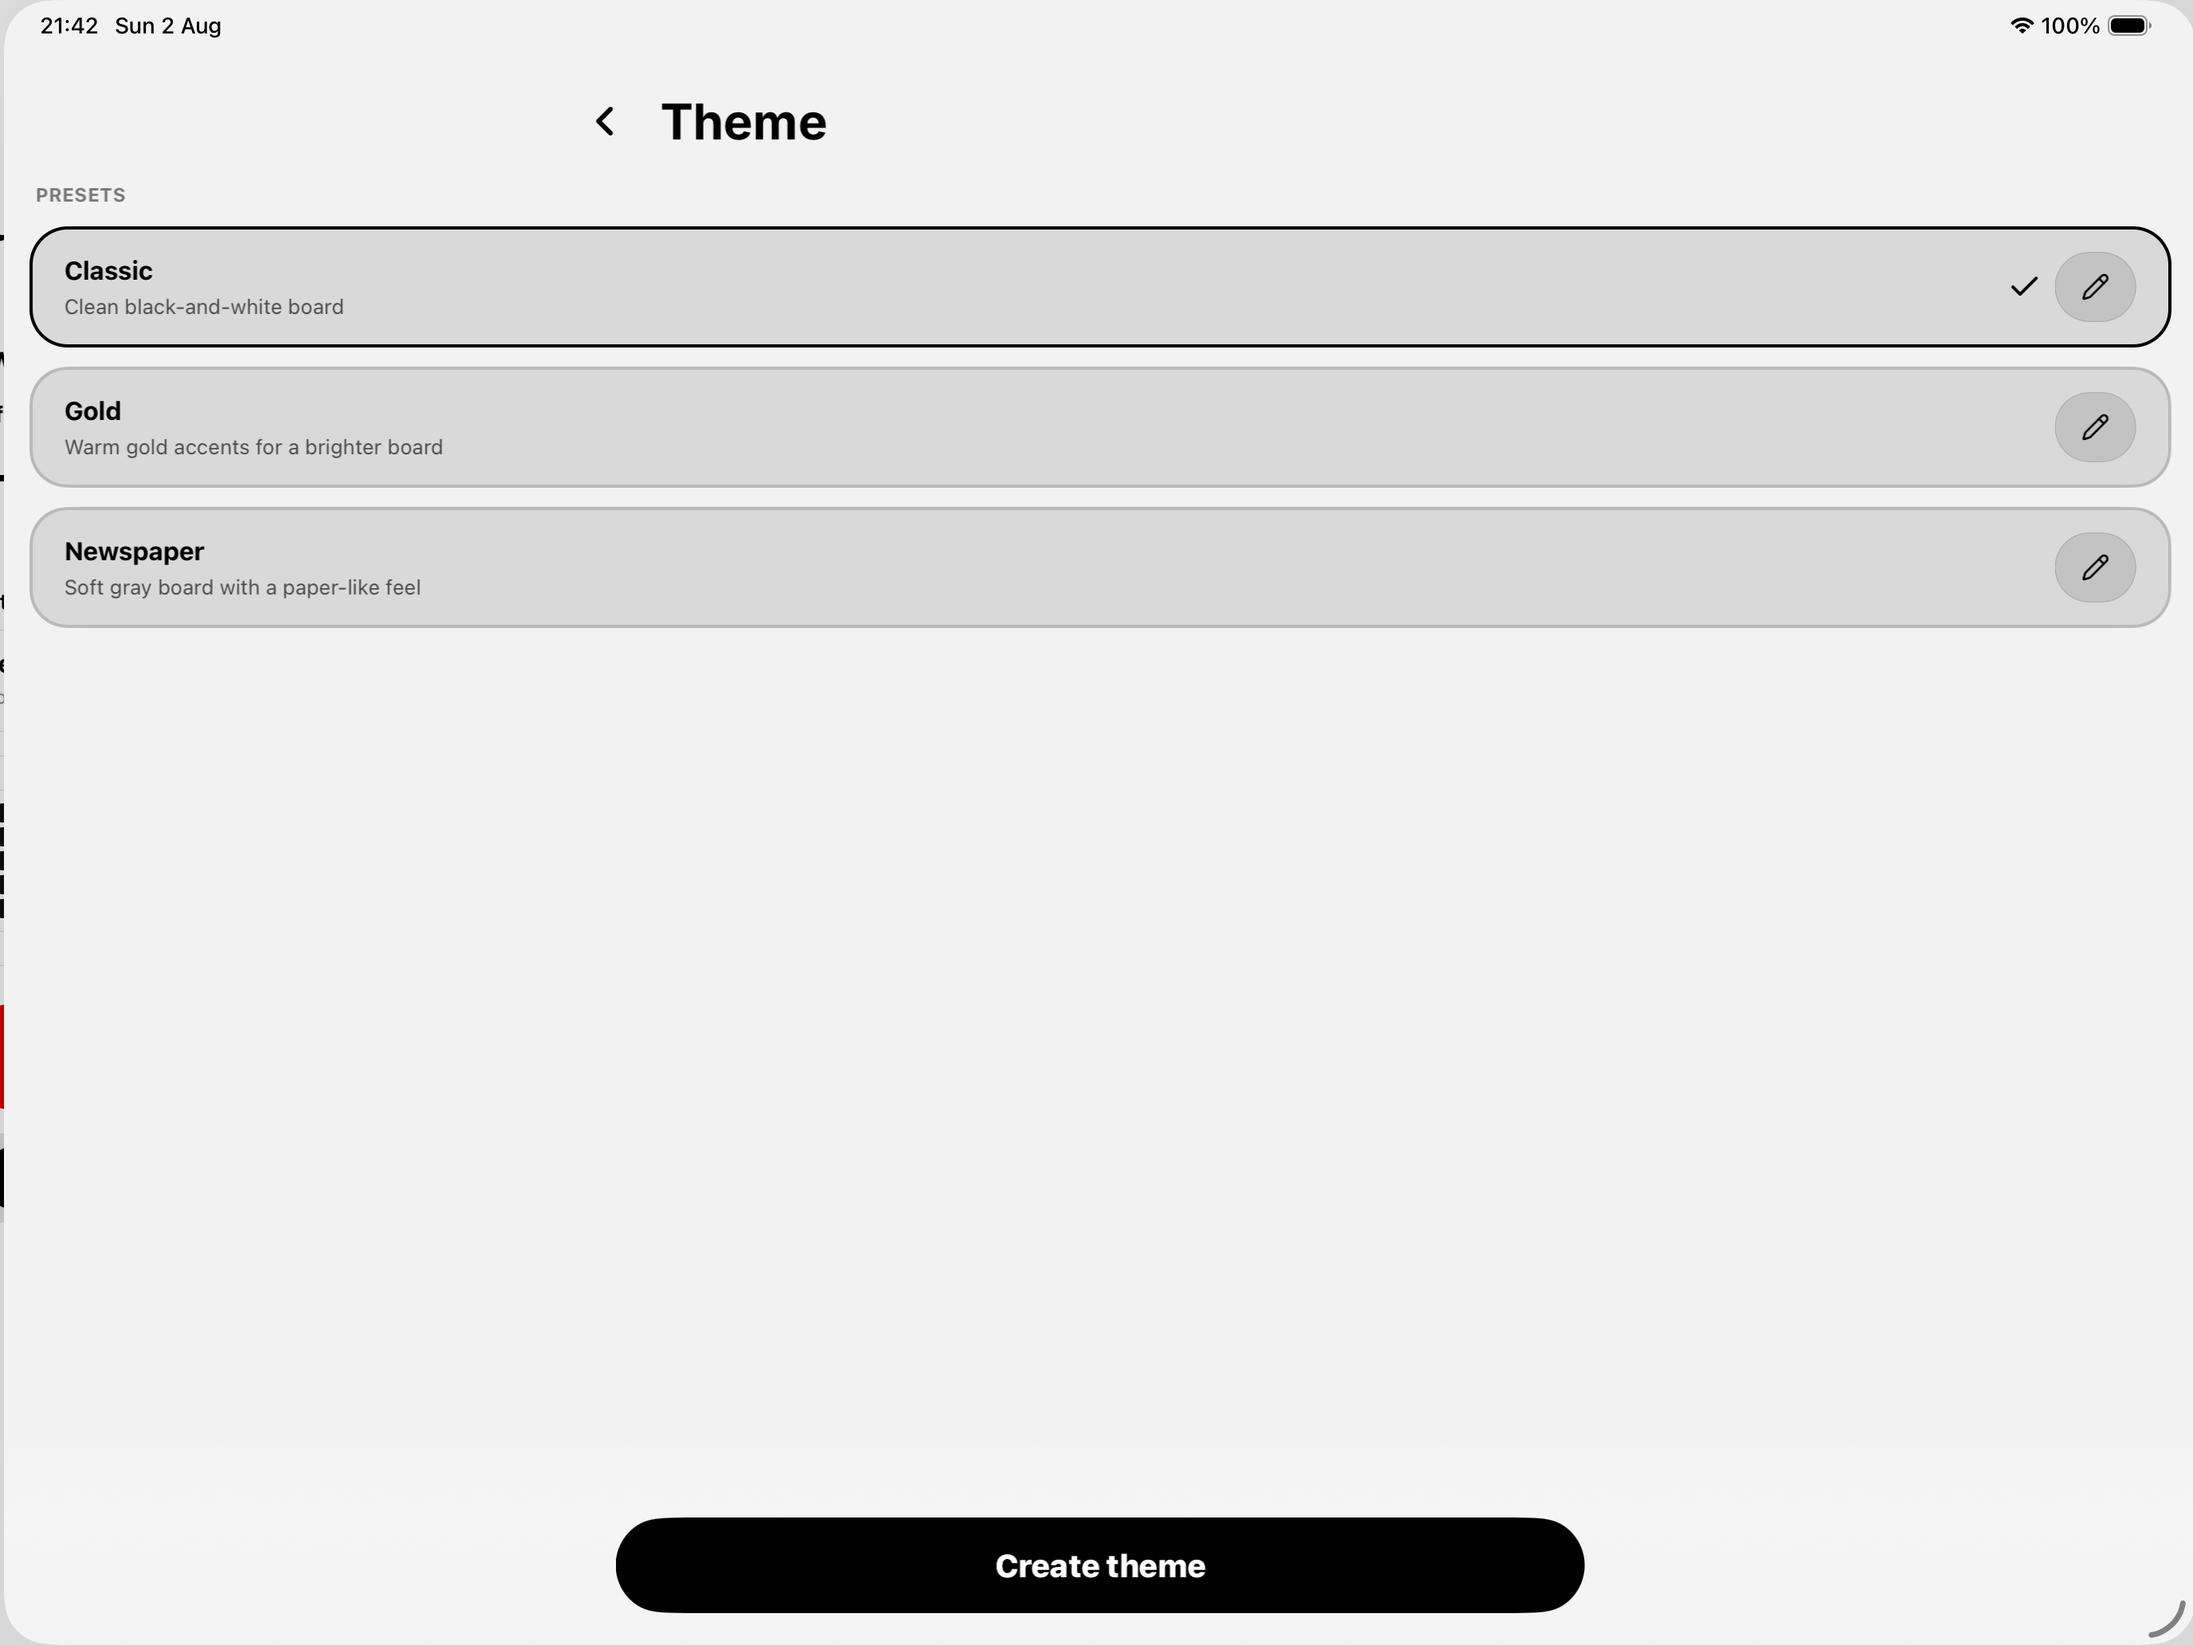
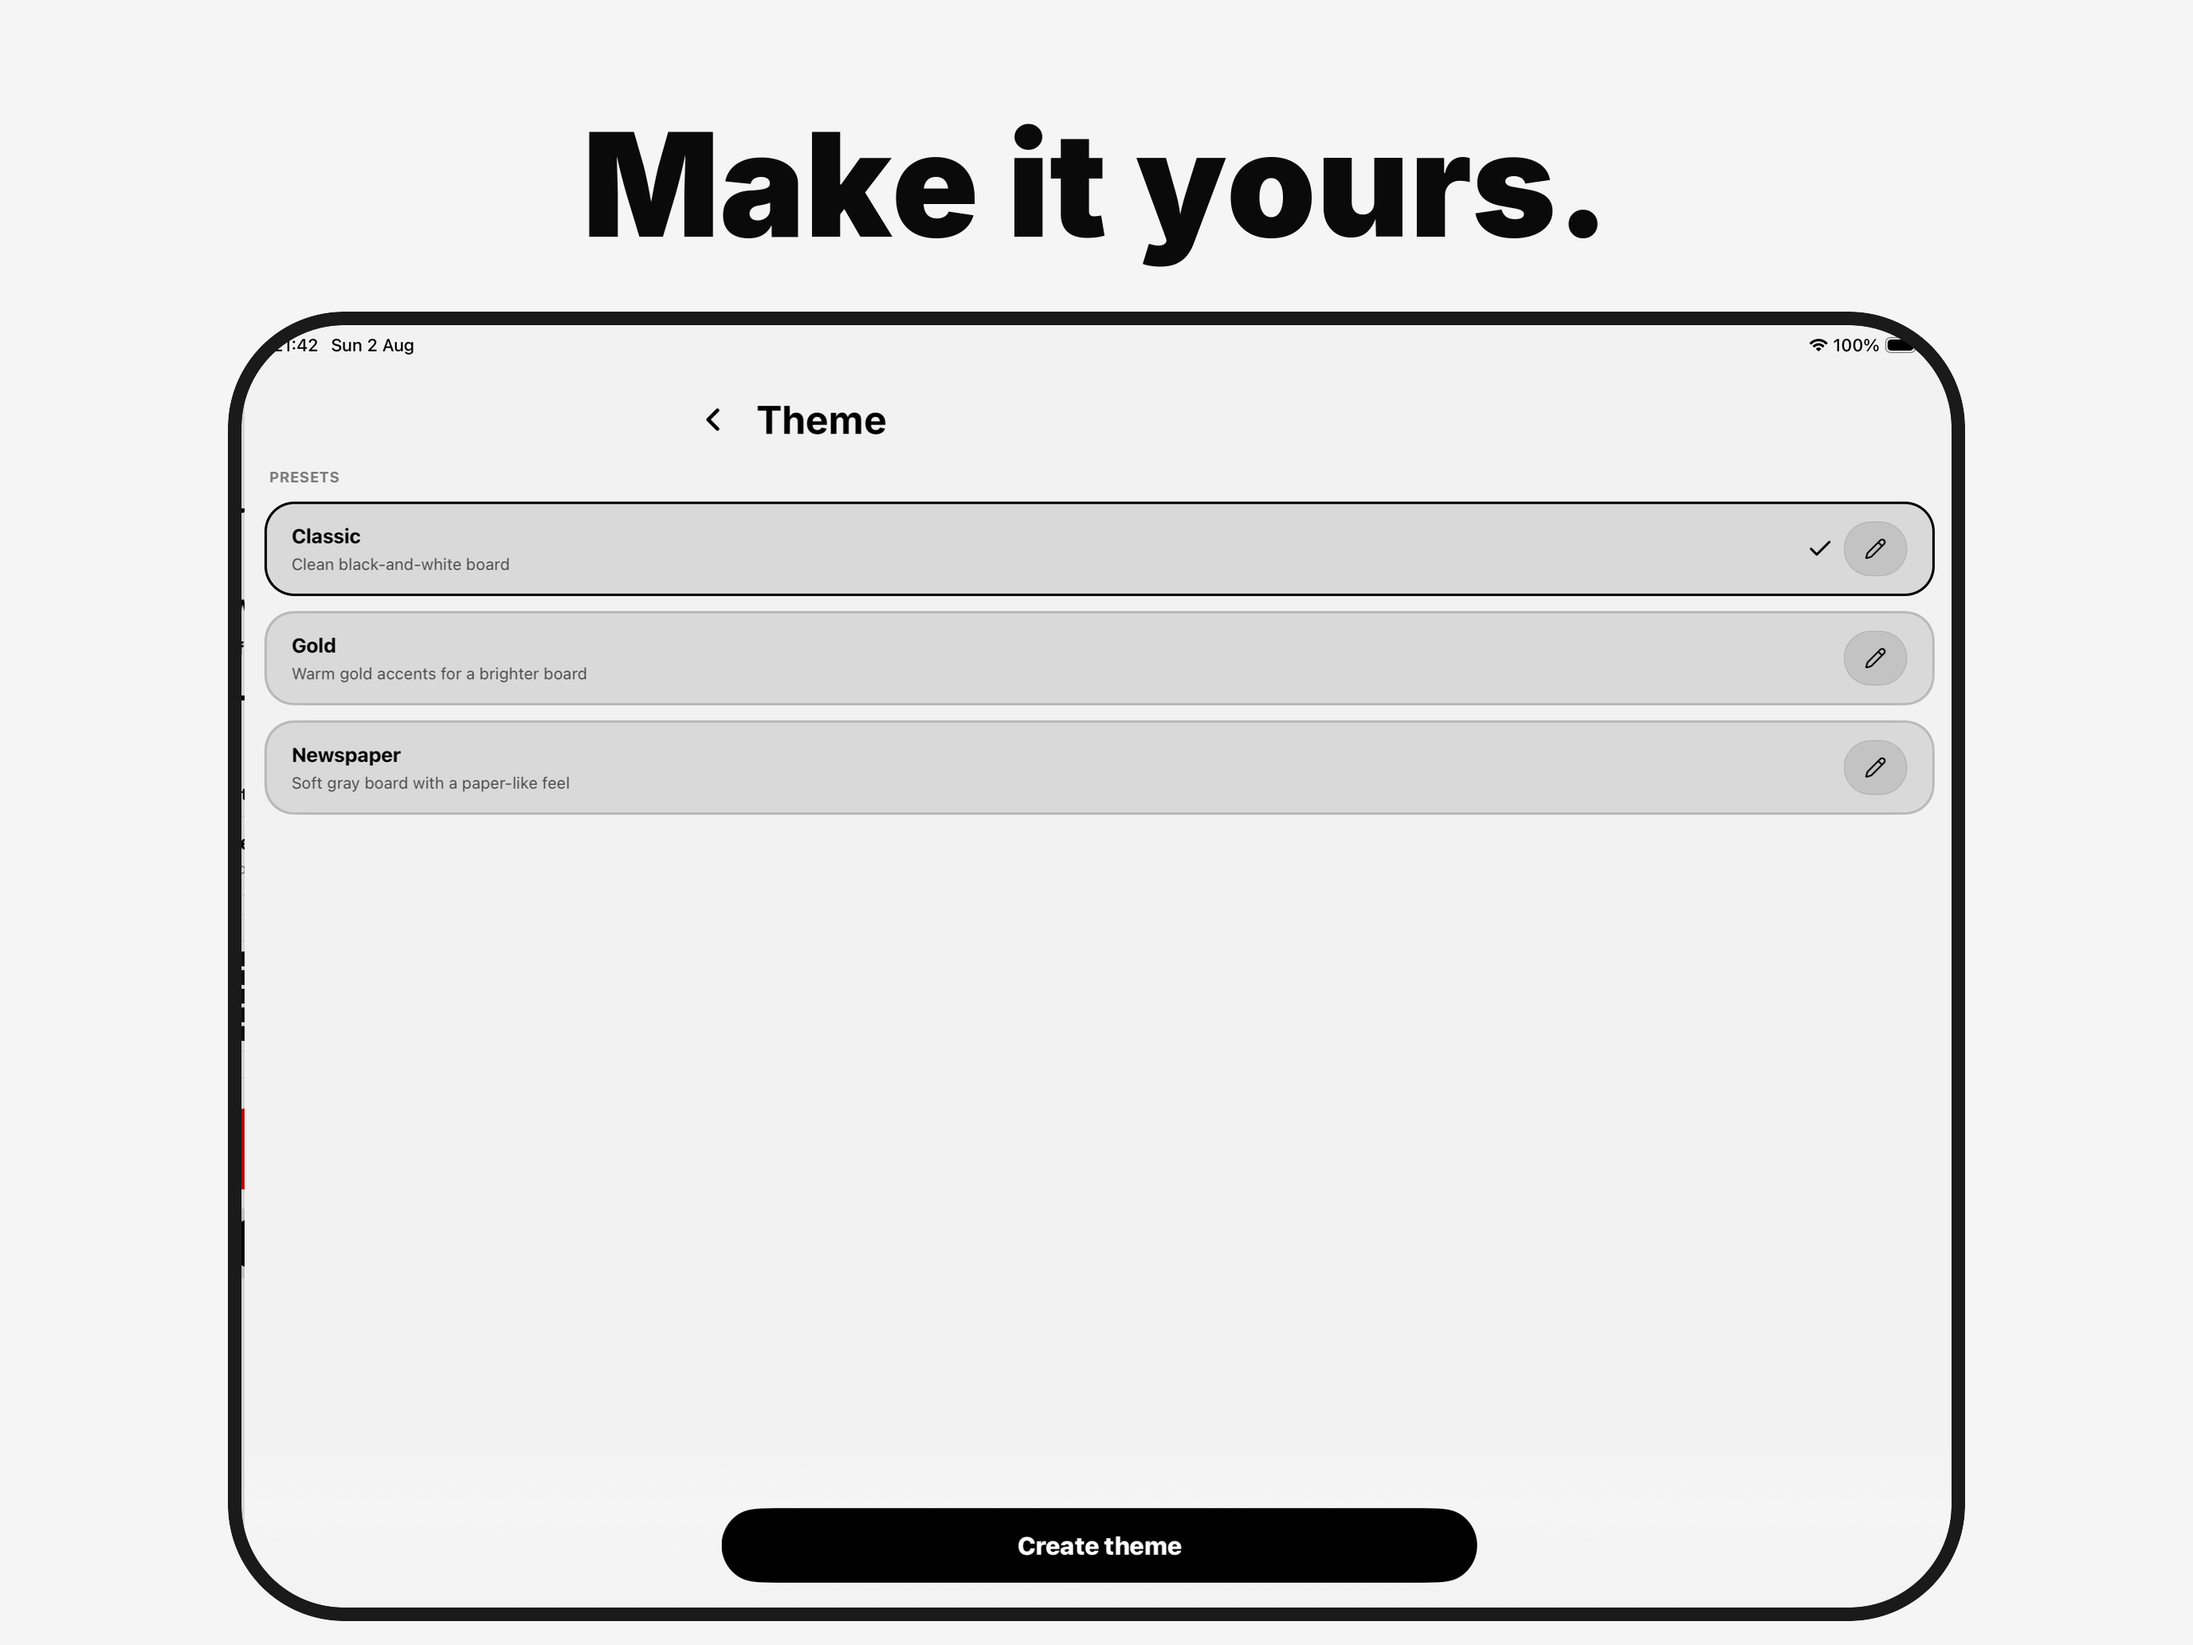
chore(app): frame and caption the English store screenshot set

diff --git a/packages/app/fastlane/screenshots/README.md b/packages/app/fastlane/screenshots/README.md
@@ -10,34 +10,111 @@ input for curation, not a deliverable.
 
 ## Current set
 
-English only, captured from the flows in `tests/app-tests/flows/screenshots`:
+English only, framed and captioned from the flows in
+`tests/app-tests/flows/screenshots`:
 
 | Prefix | Device | Resolution | App Store slot |
 | ------ | ------ | ---------- | -------------- |
 | `01`-`08` | iPhone 17 | 1206x2622 | iPhone 6.3" |
-| `21`-`28` | iPad Pro 13" landscape | 2752x2064 | iPad 13" |
+| `21`-`25` | iPad Pro 13" landscape | 2752x2064 | iPad 13" |
 
-`deliver` assigns each image to a device slot by its resolution, so iPhone and
-iPad screenshots share one locale folder. Filenames sort into upload order, and
-the first three carry the most weight in both stores.
+`deliver` assigns each image to a device slot by its exact pixel resolution, so
+iPhone and iPad screenshots share one locale folder and the composed output
+must stay at the source capture resolution — see "Framing" below for why that
+ruled out `fastlane frameit`. Filenames sort into upload order, and the first
+three carry the most weight in both stores.
+
+## Curated store ordering
+
+Apple shows roughly the first 3 screenshots before a user scrolls, so the set
+leads with the most emotionally distinctive shots rather than the order the
+flows happen to capture them in:
+
+1. `05-win` — the "Challenge won" confetti screen. Unique payoff moment, nothing
+   else in the set is this emotionally strong, so it leads.
+2. `02-hell` (flag-blue caption) — a real 17-clue Hell puzzle. This is the
+   differentiator: not a marketing difficulty label but a visibly brutal board.
+3. `03-themes` — the theme picker, the "make it yours" hook, still inside the
+   guaranteed-visible first-3 zone.
+4. `06-rival` — challenge-a-friend, the social/competitive hook.
+5. `01-hero-board` — the actual gameplay board. Deliberately not first: it's
+   the correct screen to prove the app works, but it is the least
+   differentiated shot in the set, so it sits mid-gallery instead of leading.
+6. `07-replay` — move-by-move replay, a depth feature for engaged users.
+7. `04-editor` — the per-color theme editor, paired with `03-themes` as the
+   second half of the customization story.
+8. `08-settings`, **dark appearance** — the one dark-mode shot in the set,
+   placed last so theming support reads as a closing note rather than
+   fragmenting the gallery's visual rhythm by alternating light/dark
+   throughout.
+
+The iPad set reuses the same five scenes that already have captions
+(`02-hell`, `03-themes`, `04-editor`, `06-rival`, `08-settings`) in the same
+priority order, with `08-settings` again the single dark-appearance shot —
+consistent theming coverage across both device families without inventing new
+copy.
+
+## Framing
+
+Screenshots are composed with ImageMagick
+(`design/compose-screenshots.sh`), not `fastlane frameit`. `frameit`'s
+`Framefile.json` in this directory targets a fixed 1320x2868 canvas (the
+iPhone 6.9" slot), but the raw captures are native-resolution shots from an
+iPhone 17 simulator (1206x2622, the 6.3" slot) and an iPad Pro 13" landscape
+simulator (2752x2064). `deliver` assigns uploaded screenshots to App Store
+Connect device slots by matching exact pixel dimensions, so the committed
+output must stay at the source resolution rather than being letterboxed or
+padded into frameit's canvas — ruling out frameit's fixed-canvas frame
+database for this capture set. `Framefile.json` is kept for reference and for
+any future capture run that targets the 6.9" slot directly.
+
+Regenerate the English set from `packages/app`:
+
+```bash
+fastlane/screenshots/design/compose-screenshots.sh en-US
+```
+
+The script (requires ImageMagick 7, `magick` on `PATH`):
+
+- Reads captions from `design/<locale>/title.strings`, keyed by scene name.
+- Composes each raw capture onto a same-resolution `#F5F5F5` canvas with a
+  rounded-corner, thin-dark-border device treatment (device scaled to ~78%
+  of canvas width, bottom-anchored).
+- Renders the caption above the device in Inter Black
+  (`node_modules/@expo-google-fonts/inter/900Black/Inter_900Black.ttf` at the
+  repo root — the same family the app ships), auto-fit and wrapped to the
+  caption box by ImageMagick's `caption:` reader, dark near-black `#0A0A0A`
+  by default.
+- Applies the one intentional accent: `02-hell`'s caption renders in
+  Ukraine-flag blue (`#0057B7`) instead of the default color, on both iPhone
+  and iPad. No other scene overrides the caption color.
+- Writes output at the exact source resolution so `deliver` slots each image
+  correctly, into `ios/<locale>/`, overwriting the locale's existing set.
+
+The curated scene manifest (which raw capture, which appearance, which output
+filename, in what order) is a store-listing decision and lives directly in
+the `SCENES` array in `compose-screenshots.sh`, not in a separate config —
+edit it there to change ordering or swap scenes.
 
 ## Refreshing them
 
-1. Capture (see `tests/app-tests/flows/screenshots/README.md`). For the iPhone
-   6.9" slot (1320x2868) capture on an iPhone 17 Pro Max simulator; the current
-   set was captured on an iPhone 17, which fills the 6.3" slot instead.
-2. Optionally frame and caption with `fastlane frameit` using
-   `screenshots/design/` — this needs ImageMagick (`brew install imagemagick`),
-   which is why the committed set is currently unframed.
-3. Copy the curated result into `ios/<locale>/` and commit it.
+1. Capture (see `tests/app-tests/flows/screenshots/README.md`). The current
+   set was captured on an iPhone 17 simulator (6.3" slot) and an iPad Pro 13"
+   landscape simulator; capture on an iPhone 17 Pro Max simulator instead if
+   you need to fill the 6.9" slot (1320x2868).
+2. Run `fastlane/screenshots/design/compose-screenshots.sh en-US` from
+   `packages/app` to frame and caption the curated set.
+3. Review the output in `ios/en-US/` and commit it.
 4. Upload by dispatching "Build and Publish to Stores" with
    "Also upload the committed store screenshots" checked, or run
    `fastlane ios_screenshots` locally.
 
 ## Gaps
 
-- Only `en-US` is committed. Other locales capture fine; they were not curated
-  into the repo yet.
+- Only `en-US` is composed and committed. Other locales' `title.strings`
+  already exist under `design/`; run
+  `compose-screenshots.sh <locale>` against the matching raw captures to
+  curate them once the raw captures exist for that locale.
 - No Android screenshots yet: `supply` expects them under
   `metadata/android/<locale>/images/phoneScreenshots/`, and no Android emulator
   capture has been run.

diff --git a/packages/app/fastlane/screenshots/design/README.md b/packages/app/fastlane/screenshots/design/README.md
@@ -1,11 +1,21 @@
 # App Store screenshot design
 
-Caption copy and [frameit](https://docs.fastlane.tools/actions/frameit/)
-configuration for the iOS App Store screenshot set. This directory only holds
-design assets (`Framefile.json`, per-locale `title.strings`, and the shared
-background). It does not contain raw device captures, store metadata, or
-Fastlane lanes — see `../raw/` for captures and `../../metadata/` for listing
-copy.
+Caption copy for the iOS App Store screenshot set, plus a
+[frameit](https://docs.fastlane.tools/actions/frameit/) configuration kept for
+reference. This directory only holds design assets (`Framefile.json`,
+per-locale `title.strings`, and the shared background). It does not contain
+raw device captures, store metadata, or Fastlane lanes — see `../raw/` for
+captures and `../../metadata/` for listing copy.
+
+**The committed `en-US` set is actually produced by
+`compose-screenshots.sh` (ImageMagick), not by running `fastlane frameit`
+below.** `Framefile.json` targets a fixed 1320x2868 canvas (the iPhone 6.9"
+slot), but the current raw captures are native-resolution iPhone 17
+(1206x2622) and iPad Pro 13" landscape (2752x2064) shots, and `deliver`
+assigns screenshots to store slots by exact pixel dimensions — see
+`../README.md`'s "Framing" section for the full reasoning and the reproducible
+command. The `frameit` instructions below remain accurate if a future capture
+run targets the 6.9" canvas directly.
 
 ## Layout
 
